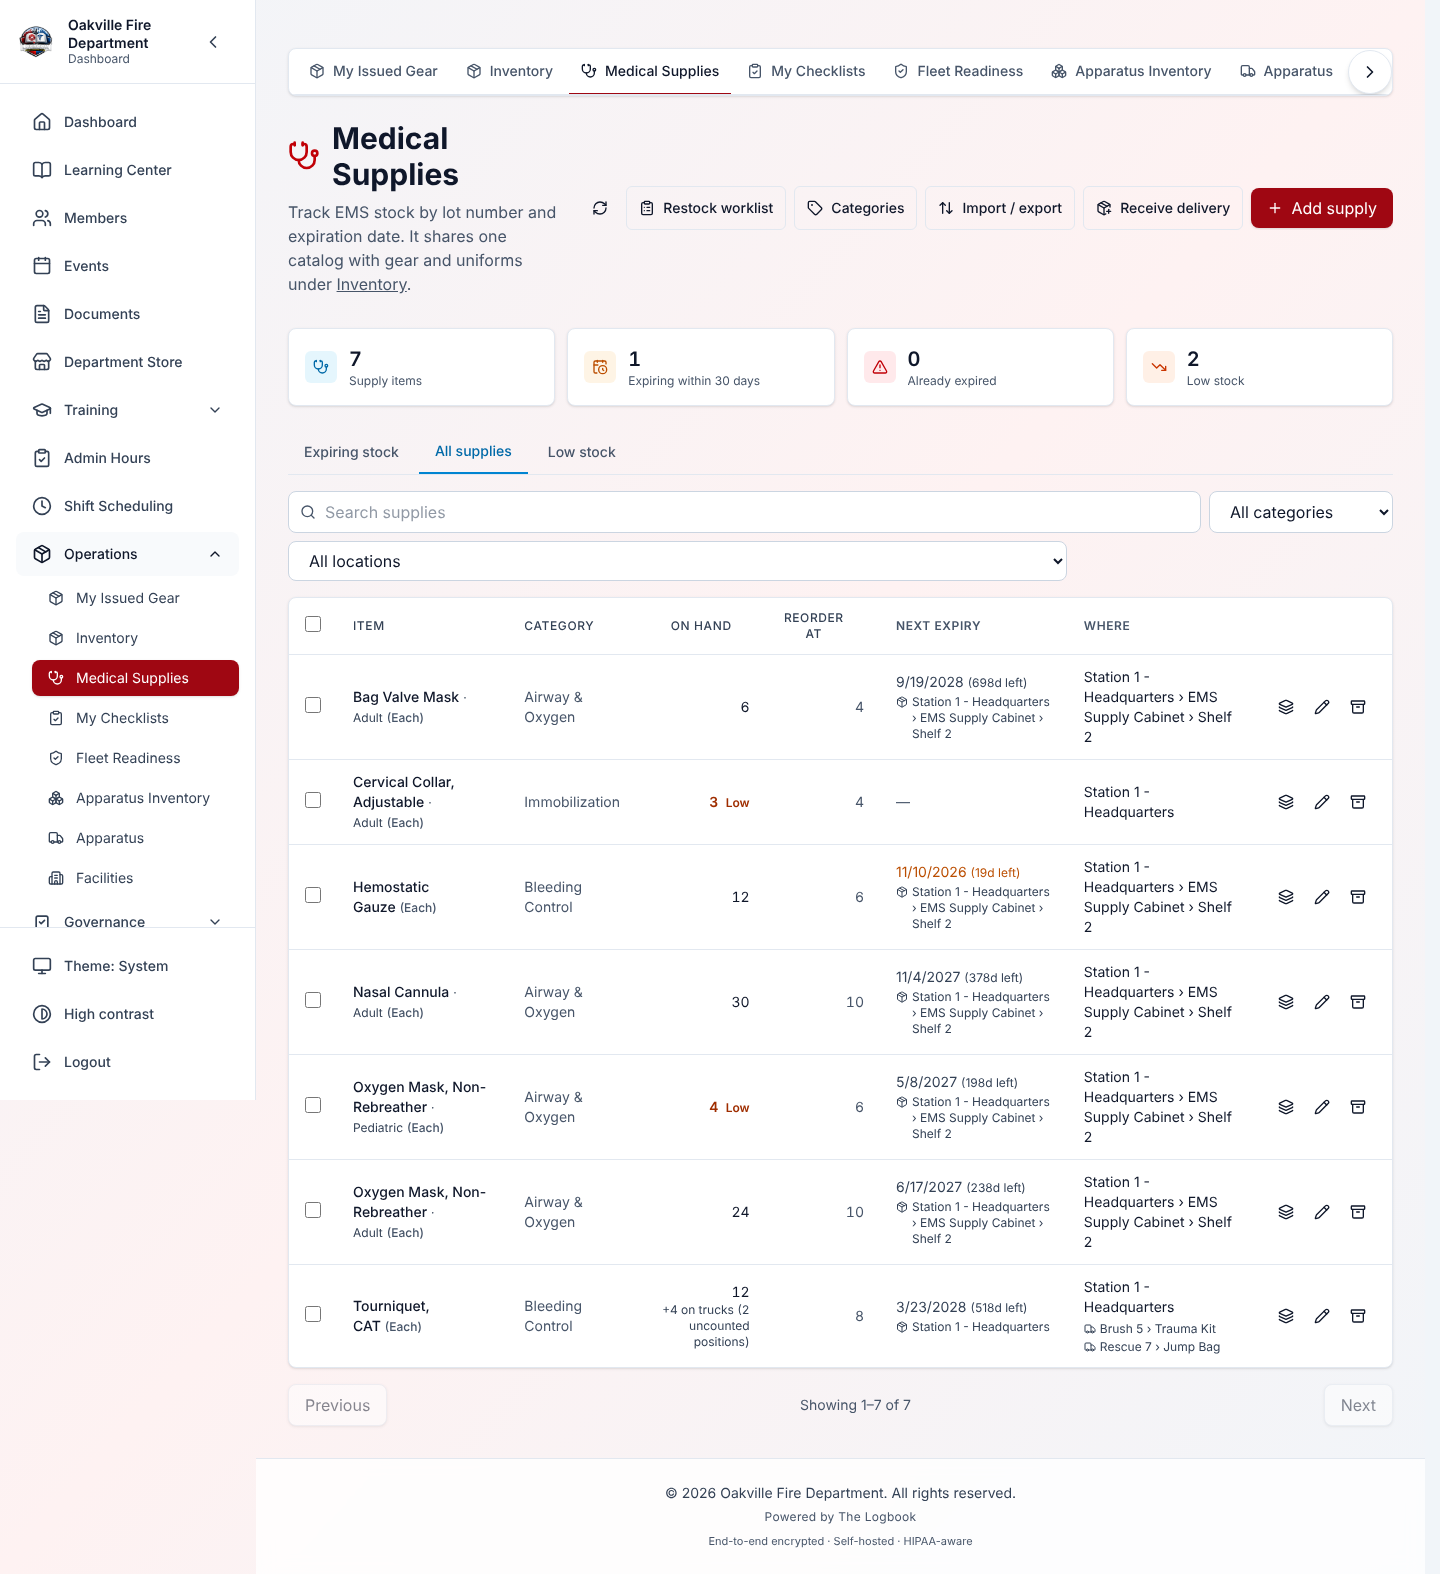
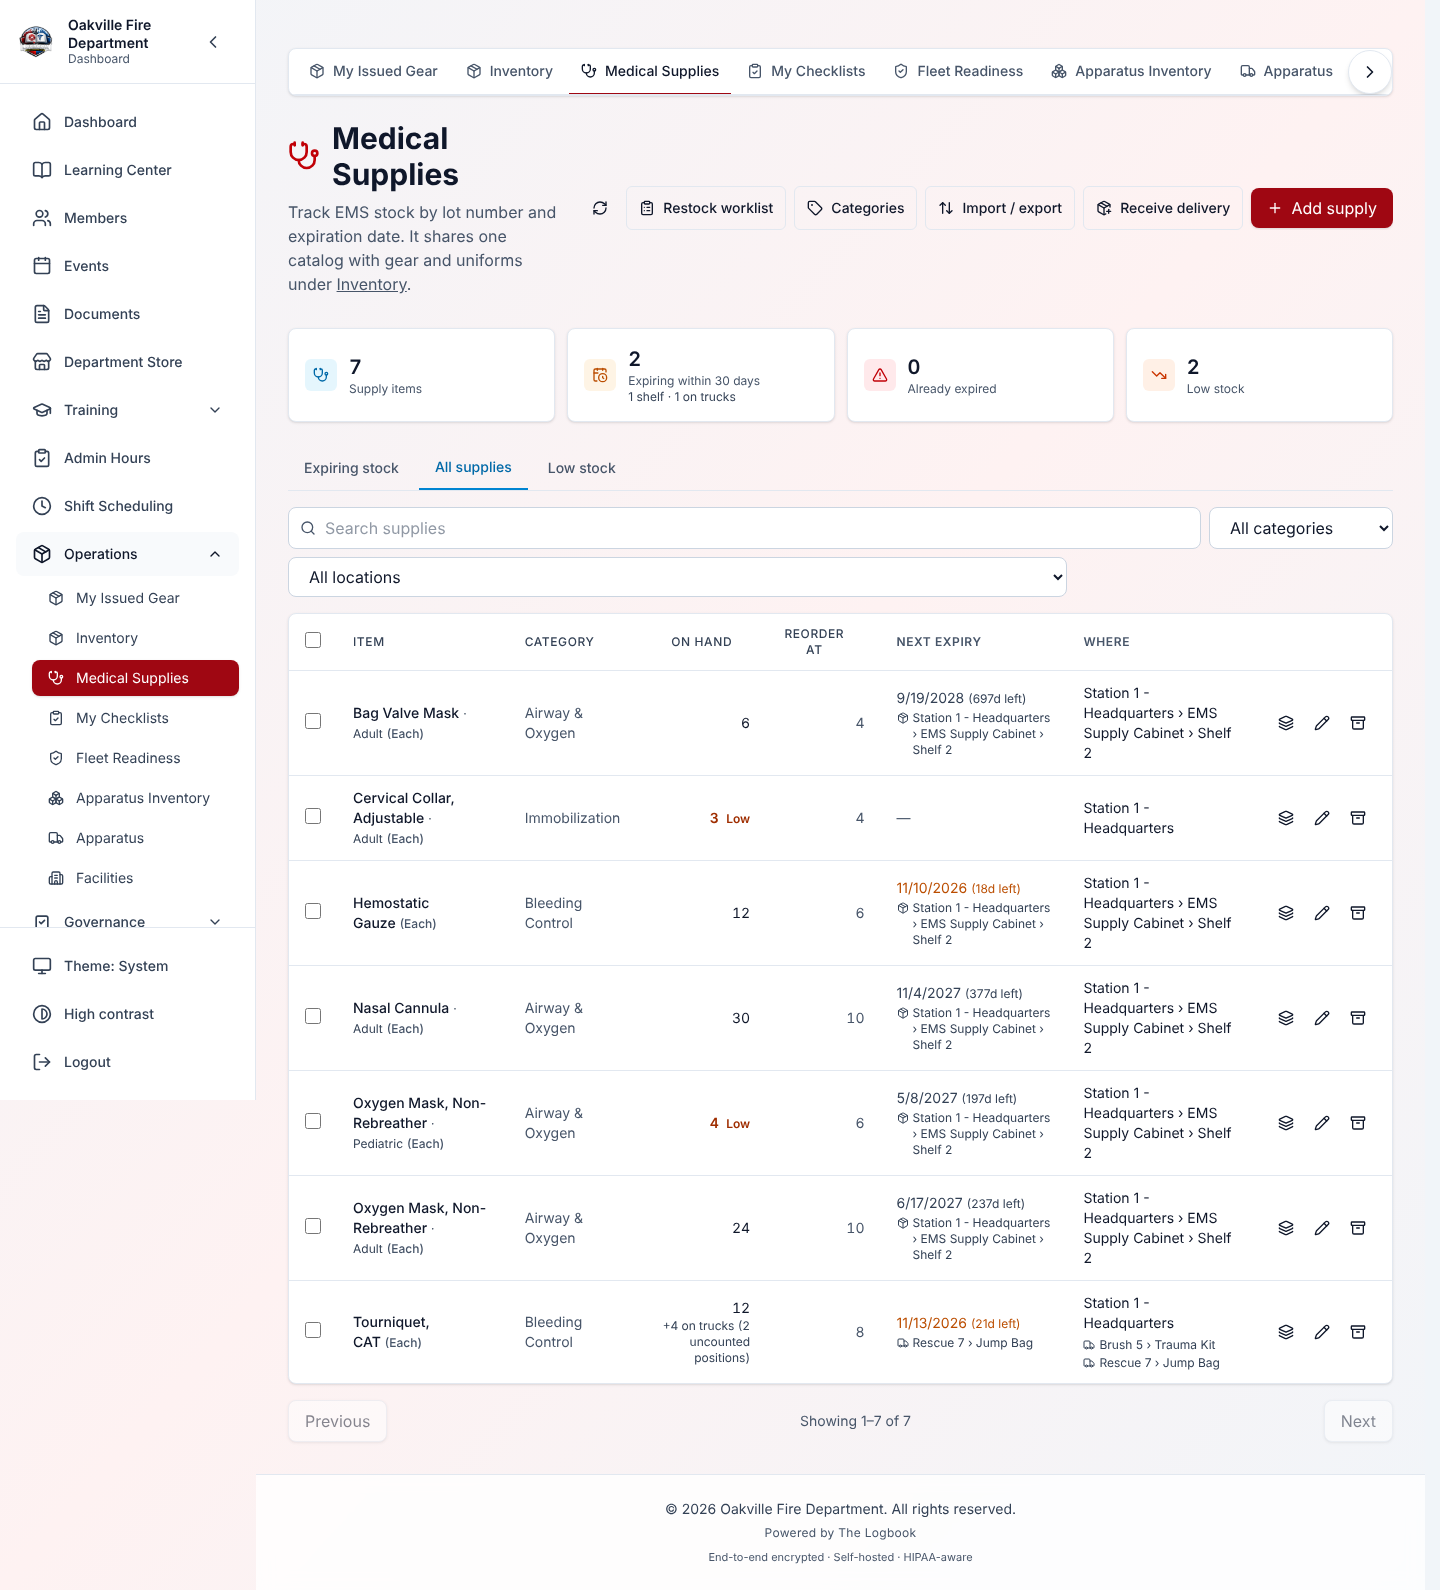
docs(training): seed and capture the three pictures the demo could not show
The weekend pattern now carries split weekday shifts (Friday night, Saturday
both, Sunday day) so the pattern list draws its sun and moon glyphs; Gauze is
counted 18 of 24, which _leave_one_short always meant to do but was never
called, so the Supplies to Replace email has its Short row; and a tourniquet on
Rescue 7 is dated three weeks out so the Medical Supplies tiles split into
shelf and truck.

PUT /equipment-checks/items/{id} with an expiration_date saved the position and
then failed writing its change log, because the logged changes held a date.
The log now takes the JSON form, with a test that fails without it.

Claude-Session: https://claude.ai/code/session_01L2e6bJ1iphkHPSvXdF7mRb

diff --git a/scripts/screenshots/seed_demo_data.py b/scripts/screenshots/seed_demo_data.py
@@ -3468,6 +3468,7 @@ class Seeder:
             if templates:
                 payload["template_id"] = pick(templates[0], "id")
             patterns.append(self.api.post("/scheduling/patterns", payload))
+        self._weekend_pattern_shifts(patterns, templates)
 
         # Ask the same endpoint the shift form asks. /apparatus-options resolves
         # the department's fleet with a documented priority — full Apparatus
@@ -5629,6 +5630,8 @@ class Seeder:
 
         self._deploy_lots(positions, catalog)
         self._report_one_used(positions, str(pick(medic, "id")))
+        self._leave_one_short(positions)
+        self._expire_one_tourniquet()
         # Linking supply positions edits the template's items, which drafts it
         # again — and this step runs *after* `seed_equipment_checks`, so that
         # step's publish sweep has already been and gone. Without this the
@@ -6274,6 +6277,37 @@ class Seeder:
         if not item_id:
             return
         self.api.put(f"/equipment-checks/items/{item_id}/quantity", {"quantity": 18})
+
+    def _expire_one_tourniquet(self) -> None:
+        """Date the tourniquet on Rescue 7 to expire three weeks from now.
+
+        The Medical Supplies tiles split each figure into shelf and truck stock
+        only when truck stock expires inside the window, and every truck lot the
+        demo carries is dated years out. A position with no lot of its own is
+        counted by the date on the position itself, which is what this sets.
+        """
+        rigs = items(self.api.get("/apparatus?page_size=100"), "items")
+        rig = next(
+            (r for r in rigs if str(pick(r, "unit_number", "unitNumber")) == "R-7"),
+            None,
+        )
+        if rig is None:
+            return
+        inventory = self.api.get(
+            f"/equipment-checks/apparatus/{pick(rig, 'id')}/inventory"
+        )
+        for compartment in items(inventory, "compartments"):
+            for position in items(compartment, "items"):
+                if pick(position, "item_name", "itemName") != "Tourniquet, CAT":
+                    continue
+                self.api.put(
+                    f"/equipment-checks/items/{pick(position, 'template_item_id', 'templateItemId')}",
+                    {
+                        "has_expiration": True,
+                        "expiration_date": str(TODAY + timedelta(days=21)),
+                    },
+                )
+                return
 
     def _report_one_used(self, positions: dict[str, str], apparatus_id: str) -> None:
         """Raise a restock report as an ordinary member, not as the chief.
@@ -16063,6 +16097,42 @@ class Seeder:
                     "reason": "For the open house next month.",
                 },
             )
+
+    WEEKEND_PATTERN = "Weekend Duty Rotation"
+
+    def _weekend_pattern_shifts(
+        self, patterns: list[dict], templates: list[dict]
+    ) -> None:
+        """Give the weekend pattern the shifts a split weekly pattern carries.
+
+        Friday night, Saturday day and night, Sunday day: the case the guide
+        describes, and what the pattern list draws a sun and a moon for. A plain
+        weekly pattern has no ``weekday_shifts``, so its row shows no glyphs.
+        Weekdays are numbered from Sunday, as the pattern form numbers them.
+        """
+        pattern = next(
+            (p for p in patterns if pick(p, "name") == self.WEEKEND_PATTERN), None
+        )
+        if pattern is None or (pick(pattern, "schedule_config") or {}).get(
+            "weekday_shifts"
+        ):
+            return
+        by_name = {str(pick(t, "name")): pick(t, "id") for t in templates}
+        day, night = by_name.get("Day Shift"), by_name.get("Night Shift")
+        if not day or not night:
+            return
+        config = dict(pick(pattern, "schedule_config") or {})
+        config.update(
+            {
+                "weekday_shifts": {"0": ["day"], "5": ["night"], "6": ["day", "night"]},
+                "weekdays": [0, 5, 6],
+                "day_template_id": day,
+                "night_template_id": night,
+            }
+        )
+        self.api.patch(
+            f"/scheduling/patterns/{pick(pattern, 'id')}", {"schedule_config": config}
+        )
 
     GUIDE06_LOCATIONS_STATION = "Station 3 - Eastside"
 

diff --git a/backend/tests/test_equipment_check_item_update_changelog.py b/backend/tests/test_equipment_check_item_update_changelog.py
@@ -1,0 +1,59 @@
+"""Updating a checklist position with an expiration date writes its change log.
+
+``PUT /equipment-checks/items/{id}`` saved the position and then recorded what
+changed in a JSON column. The recorded changes were the request's typed values,
+so an ``expiration_date`` reached the column as a ``date`` and the insert
+failed with "Object of type date is not JSON serializable" -- the position was
+already saved, the caller got a 500, and the template's history never heard
+about it.
+"""
+
+import json
+from datetime import date
+from types import SimpleNamespace
+from unittest.mock import AsyncMock, MagicMock, patch
+
+import pytest
+
+from app.api.v1.endpoints.equipment_check import update_item
+from app.schemas.equipment_check import CheckTemplateItemUpdate
+
+pytestmark = pytest.mark.unit
+
+
+async def test_the_logged_changes_hold_only_json_values():
+    db = MagicMock()
+    db.execute = AsyncMock(
+        return_value=MagicMock(scalar_one_or_none=MagicMock(return_value="tmpl-1"))
+    )
+    db.commit = AsyncMock()
+    item = SimpleNamespace(compartment_id="comp-1", name="Tourniquet, CAT")
+    logged = AsyncMock()
+    stored = AsyncMock(return_value=item)
+    user = SimpleNamespace(
+        id="user-1", organization_id="org-1", first_name="Dana", last_name="Ruiz"
+    )
+
+    with patch(
+        "app.api.v1.endpoints.equipment_check.EquipmentCheckService.update_item",
+        stored,
+    ), patch(
+        "app.api.v1.endpoints.equipment_check.EquipmentCheckService.log_template_change",
+        logged,
+    ):
+        await update_item(
+            item_id="item-1",
+            data=CheckTemplateItemUpdate(
+                has_expiration=True, expiration_date=date(2026, 11, 13)
+            ),
+            db=db,
+            current_user=user,
+        )
+
+    sent = logged.await_args.kwargs["changes"]
+    assert json.loads(json.dumps(sent)) == {
+        "has_expiration": True,
+        "expiration_date": "2026-11-13",
+    }
+    # The update itself still receives the typed value.
+    assert stored.await_args.args[2]["expiration_date"] == date(2026, 11, 13)

diff --git a/backend/app/api/v1/endpoints/equipment_check.py b/backend/app/api/v1/endpoints/equipment_check.py
@@ -799,6 +799,9 @@ async def update_item(
 
     service = EquipmentCheckService(db)
     changes = data.model_dump(exclude_unset=True)
+    # The change log is a JSON column, which cannot hold the `date` an
+    # expiration carries; the update itself keeps the typed values.
+    logged_changes = data.model_dump(mode="json", exclude_unset=True)
     try:
         item = await service.update_item(
             item_id,
@@ -823,7 +826,7 @@ async def update_item(
             entity_type="item",
             entity_id=item_id,
             entity_name=item.name,
-            changes=changes,
+            changes=logged_changes,
         )
         await db.commit()
     return item

diff --git a/docs/CHANGE_AUDIT_2026-10.md b/docs/CHANGE_AUDIT_2026-10.md
@@ -16,8 +16,11 @@ Screenshot pass only; no guide wording changed beyond removing placeholders.
   table, Chief sign-offs) and were removed rather than re-shot. The status
   report now reads 810 captured, 2 remaining.
 - **Still open.** Two Android-only NFC captures in guide 05 (Web NFC does not
-  exist in the capture harness), and the weekly-pattern list with its sun and
-  moon glyphs, which the demo has no split pattern to show.
+  exist in the capture harness). The weekly-pattern list with its sun and moon
+  glyphs, the Short row in the Supplies to Replace email and the shelf/truck
+  split on the Medical Supplies tiles were the other three; the seeder now
+  produces each (a split Weekend Duty Rotation, Gauze counted 18 of 24, and a
+  tourniquet on Rescue 7 dated three weeks out) and the pictures are in.
 - **Pictures that use a stand-in for state the seeder cannot make.** The
   Items Not Seen report (two rows given a 212- and 301-day history), the empty
   fleet and fresh-department guides (the summary answered as a new department's),
@@ -27,7 +30,10 @@ Screenshot pass only; no guide wording changed beyond removing placeholders.
   where the response is replaced; the screen, wording and controls are real.
 - **Bug found while seeding.** `POST /inventory/clearances` answered 500 after
   saving the clearance, because its response listed line items that were never
-  loaded. Fixed in `DepartureClearanceService.initiate_clearance` with a test.
+  loaded. Fixed in `DepartureClearanceService.initiate_clearance` with a test. A second one
+  turned up seeding the tourniquet: `PUT /equipment-checks/items/{id}` with an
+  `expiration_date` saved the position and then failed writing its change log,
+  because the logged changes held a `date`. The log now takes the JSON form.
 - **Capture tooling.** `seed_demo_data.py` gains a published and signed July
   minutes record, a meeting whose agenda moved on after its minutes, a
   legacy-form station and room for the Locations page, an overdue facility

diff --git a/docs/training/05-inventory.md b/docs/training/05-inventory.md
@@ -1277,7 +1277,7 @@ item kept in dated lots, the quantity counts in-date lots only, and says so.
 | **Property return reminder** and **member dropped** notice | Two columns, **Item** and **Value**, with condition, serial number and asset tag as grey lines under the item. A missing value is left out          |
 | **Supplies to Replace** (weekly)                           | Supplies expiring on the apparatus, with a **Status** column. See [Shifts & Scheduling](./03-scheduling.md#alerts)                                  |
 
-![The weekly Supplies to Replace email at phone width: supplies on apparatus with replacement stock ready, the Status column showing a date with days left for an expiring supply and Restock reported with the crew's note, and the shelf lots expiring below](./images/05-136-supplies-to-replace-email-phone.png)
+![The weekly Supplies to Replace email at phone width: supplies on apparatus with replacement stock ready, the Status column showing a date with days left for an expiring supply, Restock reported with the crew's note, and Short with how many are aboard against the target, and the shelf lots expiring below](./images/05-136-supplies-to-replace-email-phone.png)
 
 ---
 
@@ -3039,6 +3039,8 @@ value is refused rather than guessed).
 ![Medical Supplies with a supply's shelf count followed by how many are on trucks, and a Next expiry that names the truck carrying the soonest-expiring lot](./images/05-133-medical-supplies-on-trucks.png)
 
 ![The medical supply form with Kept on apparatus only ticked and its explanation, for a supply that never goes through the stock room](./images/05-134-medical-supply-apparatus-only.png)
+
+![The Expiring stock tab of Medical Supplies: the Expiring within 30 days tile reading 1 shelf and 1 on trucks, and the list carrying a shelf lot beside the tourniquet carried on Rescue 7](./images/05-137-medical-expiring-split.png)
 
 ### Deleting a medical supply category
 

diff --git a/docs/training/SCREENSHOT_STATUS.md b/docs/training/SCREENSHOT_STATUS.md
@@ -9,16 +9,16 @@ image still matches the application is tracked by hand in
 [SCREENSHOT_CURRENCY.md](./SCREENSHOT_CURRENCY.md) — this file is
 regenerated wholesale, so that audit cannot live here.
 
-**810 of 812 placeholders filled** (2 remaining).
+**812 of 814 placeholders filled** (2 remaining).
 
 | Guide | Captured | Remaining |
 |-------|---------:|----------:|
 | [00-getting-started.md](./00-getting-started.md) | 26 | 0 |
 | [01-membership.md](./01-membership.md) | 42 | 0 |
 | [02-training.md](./02-training.md) | 93 | 0 |
-| [03-scheduling.md](./03-scheduling.md) | 112 | 0 |
+| [03-scheduling.md](./03-scheduling.md) | 113 | 0 |
 | [04-events-meetings.md](./04-events-meetings.md) | 79 | 0 |
-| [05-inventory.md](./05-inventory.md) | 111 | 2 |
+| [05-inventory.md](./05-inventory.md) | 112 | 2 |
 | [06-apparatus-facilities.md](./06-apparatus-facilities.md) | 31 | 0 |
 | [07-documents-forms.md](./07-documents-forms.md) | 39 | 0 |
 | [08-admin-reports.md](./08-admin-reports.md) | 98 | 0 |
@@ -32,5 +32,5 @@ regenerated wholesale, so that audit cannot live here.
 | [16-integrations.md](./16-integrations.md) | 16 | 0 |
 | [17-privacy-data-rights.md](./17-privacy-data-rights.md) | 7 | 0 |
 | [18-storefront.md](./18-storefront.md) | 7 | 0 |
-| **Total** | **810** | **2** |
+| **Total** | **812** | **2** |
 

diff --git a/docs/training/03-scheduling.md b/docs/training/03-scheduling.md
@@ -3221,6 +3221,8 @@ only bounds when automatic generation begins.
 
 ![New Pattern in Manual Setup, Weekly: Friday, Saturday and Sunday active, Separate day and night shifts ticked, Friday carrying only the night shift, Saturday both and Sunday only the day shift](./images/03-127-pattern-weekly-split.png)
 
+![The Weekend Duty Rotation weekly pattern in the pattern list, expanded: the sun and moon glyphs beside each covered weekday, and the weekly shifts listed as Sunday: Day, Friday: Night and Saturday: Day + Night](./images/03-128-pattern-list-glyphs.png)
+
 Select **Create Pattern** to save it.
 
 **A pattern needs a template.** Generating from a pattern with no template
